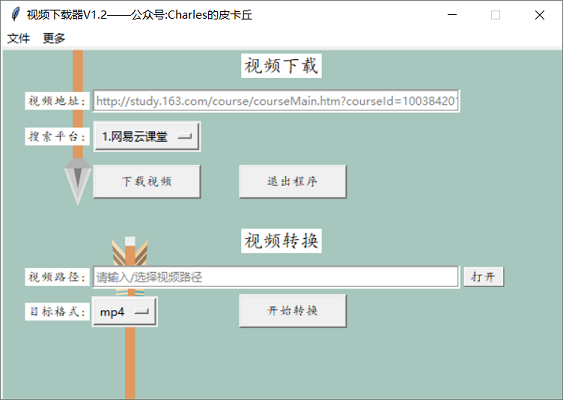
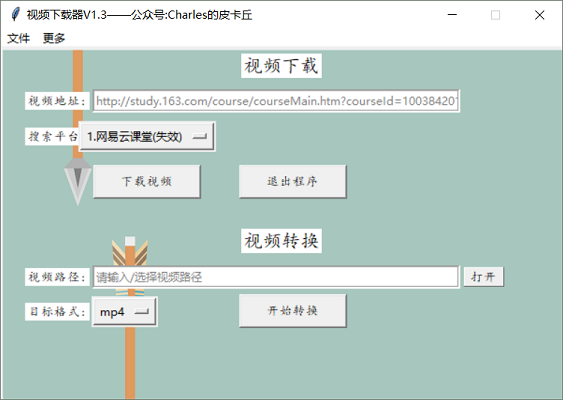
support tecent

Changed region(s): [[0.1208, 0.3, 0.3925, 0.39], [0.1812, 0.03, 0.2114, 0.06]]

diff --git a/platforms/tecent.py b/platforms/tecent.py
@@ -1,0 +1,128 @@
+# 作者：Charles
+# 公众号：Charles的皮卡丘
+# 腾讯视频下载:
+# 	-https://v.qq.com/
+import os
+import re
+import sys
+import json
+import click
+import urllib
+import requests
+from contextlib import closing
+sys.path.append('..')
+from utils.utils import *
+
+
+'''
+Input:
+	-url: 视频地址
+	-savepath: 视频下载后保存的路径
+	-app: 在cmd窗口运行还是在Demo中调用该类
+Output:
+	-返回下载响应码
+'''
+class tecent():
+	def __init__(self):
+		self.headers = {
+						'user-agent': 'Mozilla/5.0 (Windows NT 10.0; Win64; x64) AppleWebKit/537.36 (KHTML, like Gecko) Chrome/67.0.3396.99 Safari/537.36'
+					}
+		self.info_url = 'http://vv.video.qq.com/getinfo?otype=json&appver=3.2.19.335&platform={}&defnpayver=1&defn=shd&vid={}'
+		self.key_url = 'http://vv.video.qq.com/getkey?otype=json&platform=11&format={}&vid={}&filename={}&appver=3.2.19.335'
+	# 外部调用
+	def get(self, url, savepath='./videos', app='demo'):
+		Vurlinfos = self._getvideoinfos(url)
+		res = None
+		if app == 'cmd':
+			for Vurlinfo in Vurlinfos:
+				res = self._download_cmd(Vurlinfo, savepath)
+		elif app == 'demo':
+			for Vurlinfo in Vurlinfos:
+				res = self._download_demo(Vurlinfo, savepath)
+		return res
+	# Demo用
+	def _download_demo(self, Vurlinfos, savepath):
+		if not os.path.exists(savepath):
+			os.mkdir(savepath)
+		name = 'tecent_' + Vurlinfos[1] + '.mp4'
+		download_url = Vurlinfos[0]
+		if not download_url:
+			return 404
+		try:
+			download_tms(download_url, name)
+			return 200
+		except:
+			return 404
+	# Cmd用
+	def _download_cmd(self, Vurlinfos, savepath):
+		if not os.path.exists(savepath):
+			os.mkdir(savepath)
+		name = 'tecent_' + Vurlinfos[1] + '.mp4'
+		download_url = Vurlinfos[0]
+		if not download_url:
+			return 404
+		try:
+			download_tms(download_url, name)
+			return 200
+		except:
+			return 404
+	# 获得视频信息
+	def _getvideoinfos(self, url):
+		Vurlinfos = []
+		platforms = [4100201, 11]
+		vid = url.split('/')[-1].split('.')[0]
+		if len(vid) != 11:
+			res = requests.get(url, headers=self.headers)
+			url = re.findall(r'rel="canonical".*?href="(.*?)"', res.text)[0]
+			vid = url.split('/')[-1].split('.')[0]
+		is_find = False
+		for platform in platforms:
+			res = requests.get(url=self.info_url.format(platform, vid), headers=self.headers)
+			if len(re.findall(r'"url":(.*?),', res.text)) >= 1:
+				is_find = True
+			info_json = json.loads(re.findall(r'QZOutputJson=(.*)', res.text)[0][:-1])
+			if is_find:
+				break
+		try:
+			lnk = info_json['vl']['vi'][0]['lnk']
+			title = info_json['vl']['vi'][0]['ti']
+			url = info_json['vl']['vi'][0]['ul']['ui'][0]['url']
+			fc = info_json['vl']['vi'][0]['cl']['fc']
+			fn = info_json['vl']['vi'][0]['fn']
+		except:
+			return [None, None]
+		assert fn.split('.')[0] == lnk
+		constant, video_type = fn.split('.')[-2], fn.split('.')[-1]
+		flag = True
+		if fc == 0:
+			fc = 1
+			flag = False
+		download_url = []
+		for i in range(fc):
+			if flag:
+				keyid = info_json['vl']['vi'][0]['cl']['ci'][i]['keyid'].split('.')[1]
+				fn = '.'.join([lnk, constant, str(i+1), video_type])
+			else:
+				keyid = info_json['vl']['vi'][0]['cl']['keyid'].split('.')[-1]
+			res = requests.get(url=self.key_url.format(keyid, vid, fn), headers=self.headers)
+			res_json = json.loads(re.findall(r'QZOutputJson=(.*)', res.text)[0][:-1])
+			if not res_json.get('key'):
+				try:
+					key = res_json['v1']['vi'][0]['fvkey']
+					download_url_part = '{}{}?vkey={}'.format(url, lnk+'.'+video_type, key)
+				except:
+					download_url_part = None
+			else:
+				key = res_json.get('key')
+				download_url_part = '{}{}?vkey={}'.format(url, fn, key)
+			download_url.append(download_url_part)
+		Vname = title
+		Vurlinfos.append([download_url, Vname])
+		return Vurlinfos
+
+
+# 测试用
+if __name__ == '__main__':
+	url = 'https://v.qq.com/x/cover/7r83y1oca851nq6/g07185bhudr.html'
+	# tecent().get(url, savepath='./videos', app='demo')
+	tecent().get(url, savepath='./videos', app='cmd')

diff --git a/Demo.py b/Demo.py
@@ -11,6 +11,7 @@
 #	Ted演讲: ted.ted()
 #	CNTV: cntv.cntv()
 # 	战旗: zhanqi.zhanqi()
+# 	腾讯: tecent.tecent()
 import os
 import threading
 from platforms import *
@@ -39,6 +40,7 @@ class Download_Thread(threading.Thread):
 		# 	Ted演讲 -> '6'
 		# 	CNTV -> '7'
 		#	战旗 -> '8'
+		# 	腾讯 -> '9'
 		self.engine = None
 		self.url = None
 		self.savepath = './videos'
@@ -52,72 +54,81 @@ class Download_Thread(threading.Thread):
 					res = wangyiyun.wangyiyun().get(self.url, savepath=self.savepath, app='demo')
 					if res != 200:
 						raise RuntimeError('url request error...')
+					self.show_end_info(savepath=self.savepath)
 				except:
 					self.show_parse_error()
-				self.show_end_info(savepath=self.savepath)
 			elif self.engine == '2':
 				self.show_start_info()
 				try:
 					res = yinyuetai.yinyuetai().get(self.url, savepath=self.savepath, app='demo')
 					if res != 200:
 						raise RuntimeError('url request error...')
+					self.show_end_info(savepath=self.savepath)
 				except:
 					self.show_parse_error()
-				self.show_end_info(savepath=self.savepath)
 			elif self.engine == '3':
 				self.show_start_info()
 				try:
 					res = bilibili.bilibili().get(self.url, savepath=self.savepath, app='demo')
 					if res != 200:
 						raise RuntimeError('url request error...')
+					self.show_end_info(savepath=self.savepath)
 				except:
 					self.show_parse_error()
-				self.show_end_info(savepath=self.savepath)
 			elif self.engine == '4':
 				self.show_start_info()
 				try:
 					res = zhihu.zhihu().get(self.url, savepath=self.savepath, app='demo')
 					if res != 200:
 						raise RuntimeError('url request error...')
+					self.show_end_info(savepath=self.savepath)
 				except:
 					self.show_parse_error()
-				self.show_end_info(savepath=self.savepath)
 			elif self.engine == '5':
 				self.show_start_info()
 				try:
 					res = douyu.douyu().get(self.url, savepath=self.savepath, app='demo')
 					if res != 200:
 						raise RuntimeError('url request error...')
+					self.show_end_info(savepath=self.savepath)
 				except:
 					self.show_parse_error()
-				self.show_end_info(savepath=self.savepath)
 			elif self.engine == '6':
 				self.show_start_info()
 				try:
 					res = ted.ted().get(self.url, savepath=self.savepath, app='demo')
 					if res != 200:
 						raise RuntimeError('url request error...')
+					self.show_end_info(savepath=self.savepath)
 				except:
 					self.show_parse_error()
-				self.show_end_info(savepath=self.savepath)
 			elif self.engine == '7':
 				self.show_start_info()
 				try:
 					res = cntv.cntv().get(self.url, savepath=self.savepath, app='demo')
 					if res != 200:
 						raise RuntimeError('url request error...')
+					self.show_end_info(savepath=self.savepath)
 				except:
 					self.show_parse_error()
-				self.show_end_info(savepath=self.savepath)
 			elif self.engine == '8':
 				self.show_start_info()
 				try:
 					res = zhanqi.zhanqi().get(self.url, savepath=self.savepath, app='demo')
 					if res != 200:
 						raise RuntimeError('url request error...')
+					self.show_end_info(savepath=self.savepath)
 				except:
 					self.show_parse_error()
-				self.show_end_info(savepath=self.savepath)
+			elif self.engine == '9':
+				self.show_start_info()
+				try:
+					res = tecent.tecent().get(self.url, savepath=self.savepath, app='demo')
+					if res != 200:
+						raise RuntimeError('url request error...')
+					self.show_end_info(savepath=self.savepath)
+				except:
+					self.show_parse_error()
 			else:
 				title = '解析失败'
 				msg = '平台选项参数解析失败！'
@@ -295,5 +306,5 @@ def Demo(options):
 
 
 if __name__ == '__main__':
-	options = ["1.网易云课堂(已不支持)", "2.音悦台", "3.B站", "4.知乎", "5.斗鱼", "6.Ted演讲", "7.CNTV", "8.战旗"]
+	options = ["1.网易云课堂(失效)", "2.音悦台", "3.B站", "4.知乎", "5.斗鱼", "6.Ted演讲", "7.CNTV", "8.战旗", "9.腾讯视频"]
 	Demo(options)

diff --git a/Cmd.py b/Cmd.py
@@ -11,6 +11,7 @@
 #	Ted演讲: ted.ted()
 # 	CNTV: cntv.cntv()
 # 	战旗: zhanqi.zhanqi()
+# 	腾讯: tecent.tecent()
 from platforms import *
 
 
@@ -103,10 +104,18 @@ def Cmd(options, savepath = './videos'):
 			print('[INFO]: 视频下载完成，视频保存在{}...'.format(savepath))
 		except:
 			print('[Error]: 链接解析失败...')
+	elif choice == '9':
+		try:
+			res = tecent.tecent().get(url, savepath, app='cmd')
+			if res != 200:
+				raise RuntimeError('url request error...')
+			print('[INFO]: 视频下载完成，视频保存在{}...'.format(savepath))
+		except:
+			print('[Error]: 链接解析失败...')
 
 
 if __name__ == '__main__':
-	options = ["1.网易云课堂(已不支持)", "2.音悦台", "3.B站", "4.知乎", "5.斗鱼", "6.Ted演讲", "7.CNTV", "8.战旗"]
+	options = ["1.网易云课堂(已失效)", "2.音悦台", "3.B站", "4.知乎", "5.斗鱼", "6.Ted演讲", "7.CNTV", "8.战旗", "9.腾讯视频"]
 	while True:
 		try:
 			Cmd(options)

diff --git a/platforms/__init__.py b/platforms/__init__.py
@@ -1,2 +1,2 @@
 # __init__
-__all__ = ['wangyiyun', 'yinyuetai', 'bilibili', 'zhihu', 'douyu', 'ted', 'cntv', 'zhanqi']
+__all__ = ['wangyiyun', 'yinyuetai', 'bilibili', 'zhihu', 'douyu', 'ted', 'cntv', 'zhanqi', 'tecent']

diff --git a/README.md b/README.md
@@ -16,6 +16,7 @@ You can star this repository to keep track of the project if it's helpful for yo
 - [x] [Bilibili](https://www.bilibili.com/) → [Url Example](https://www.bilibili.com/video/av26443123?spm_id_from=333.338.__bofqi.13)
 - [x] [Wangyiyun](https://study.163.com/) → [Url Example](http://study.163.com/course/courseMain.htm?courseId=1003842018)
 - [x] [Yinyuetai](http://www.yinyuetai.com) → [Url Example](http://v.yinyuetai.com/video/3247548)
+- [x] [tecent](https://v.qq.com/) -> [Url Example](https://v.qq.com/x/cover/7r83y1oca851nq6/n0711wto8h4.html)
 ### not in Downloader:
 - [x] [Douyin](https://github.com/CharlesPikachu/Video-Downloader/tree/master/not_in_downloader/douyin)
 - [x] [liveCache](https://github.com/CharlesPikachu/Video-Downloader/tree/master/not_in_downloader/liveCache)
@@ -51,6 +52,9 @@ Version: V1.2.1
 Support downloading zhanqi video.
 ### 2018-09-03:
 Start to support live cache.
+### 2018-09-21:
+Version: V1.3  
+Support downloading tecent video.
 
 # Running Screenshot:
 ### Demo.py:
